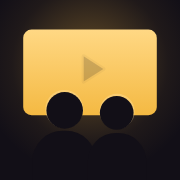
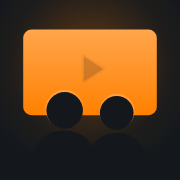
Letterboxd-flavoured restyle; wildcards must fit both players
Slate palette, serif titles, green/orange/blue for yes/no/seen, free
lookalike fonts. Own name and logo kept, logo recoloured.

Claude-Session: https://claude.ai/code/session_01Fsi7tuePNp2wVaPewHNz6a

diff --git a/index.html b/index.html
@@ -3,22 +3,24 @@
 <head>
 <meta charset="utf-8">
 <meta name="viewport" content="width=device-width, initial-scale=1, viewport-fit=cover">
-<meta name="theme-color" content="#120f17">
+<meta name="theme-color" content="#14181c">
 <title>Cineswipe</title>
 <link rel="icon" type="image/svg+xml" href="logo.svg">
 <link rel="apple-touch-icon" href="icon-180.png">
 <link rel="manifest" href="manifest.webmanifest">
 <link rel="preconnect" href="https://fonts.googleapis.com">
 <link rel="preconnect" href="https://fonts.gstatic.com" crossorigin>
-<link href="https://fonts.googleapis.com/css2?family=Anton&family=DM+Sans:wght@400;500;700&display=swap" rel="stylesheet">
+<link href="https://fonts.googleapis.com/css2?family=Hanken+Grotesk:wght@400;500;600;700;800&family=Newsreader:opsz,wght@6..72,600;6..72,700&display=swap" rel="stylesheet">
 <style>
-/* Layout: one narrow column, phone first. Screens: setup, genre pick, handoff, swipe, results. */
+/* Layout: one narrow column, phone first. Screens: setup, picks, handoff, swipe, results.
+   Look: Letterboxd-flavoured. Slate ground, blue-grey text, serif titles, green / orange / blue = yes / no / seen. */
 :root{
-  --ink:#120f17; --ink-2:#1b1723; --ink-3:#2b2536; --line:#383044;
-  --paper:#f2ece1; --muted:#a49cb3; --bulb:#f4b942; --on-bulb:#1c1405;
-  --yes:#5ed39a; --no:#f0705f; --seen:#93a8ff;
-  --display:'Anton','Impact','Arial Narrow',sans-serif;
-  --body:'DM Sans',system-ui,-apple-system,'Segoe UI',Roboto,sans-serif;
+  --ink:#14181c; --ink-2:#1c2228; --ink-3:#283038; --line:#2c3440;
+  --head:#ffffff; --paper:#d8e0e8; --text:#99aabb; --muted:#778899; --faint:#556677;
+  --go:#00ac1c; --on-go:#ffffff;        /* filled buttons and selected chips */
+  --yes:#00e054; --no:#ff8000; --seen:#40bcf4; --link:#40bcf4;
+  --display:'Newsreader','Georgia','Times New Roman',serif;
+  --body:'Hanken Grotesk',system-ui,-apple-system,'Segoe UI',Roboto,sans-serif;
   color-scheme:dark;
 }
 *{box-sizing:border-box}
@@ -34,38 +36,42 @@ body{
 #app{max-width:480px;margin:0 auto}
 h1,h2,h3,p{margin:0}
 button,input{font:inherit;color:inherit}
-a{color:var(--bulb)}
-:focus-visible{outline:2px solid var(--bulb);outline-offset:2px}
+a{color:var(--link);text-decoration:none}
+a:hover{text-decoration:underline}
+:focus-visible{outline:2px solid var(--yes);outline-offset:2px}
 .muted{color:var(--muted)}
 
-.screen{display:flex;flex-direction:column;gap:20px;padding-block:20px 32px;min-width:0}
+.screen{display:flex;flex-direction:column;gap:22px;padding-block:20px 32px;min-width:0}
 .screen.center{min-height:100dvh;justify-content:center;text-align:center;align-items:center;padding-block:24px}
 .screen.swipe{height:calc(100dvh - env(safe-area-inset-top,0px) - env(safe-area-inset-bottom,0px));padding-block:12px;gap:0}
 
-.brand{display:flex;flex-direction:column;gap:8px;align-items:flex-start}
+.brand{display:flex;flex-direction:column;gap:10px;align-items:flex-start;width:100%}
 .center .brand{align-items:center}
-.brand h1{font:400 clamp(36px,11.5vw,60px)/1 var(--display);letter-spacing:.04em;text-transform:uppercase;display:flex;align-items:center;gap:.22em}
-.brand h1 img{height:1em;width:1em;flex:none}
-.marquee{width:100%;height:10px;background:radial-gradient(circle,var(--bulb) 0 3px,transparent 3.6px) 0 50%/16px 10px repeat-x;filter:drop-shadow(0 0 4px rgba(244,185,66,.55))}
-.sub{color:var(--muted);font-size:15px}
+.brand h1{font:700 clamp(34px,10.5vw,52px)/1 var(--display);letter-spacing:-.01em;color:var(--head);display:flex;align-items:center;gap:.28em}
+.brand h1 img{height:1.05em;width:1.05em;flex:none;border-radius:22%}
+.marquee{width:100%;height:1px;background:var(--line)}
+.sub{color:var(--text);font-size:15px}
 
-.label{font-size:12px;font-weight:700;letter-spacing:.12em;text-transform:uppercase;color:var(--muted)}
+.label{font-size:12px;font-weight:600;letter-spacing:.14em;text-transform:uppercase;color:var(--muted)}
 .section{display:flex;flex-direction:column;gap:10px}
 .help{font-size:14px;color:var(--muted)}
-.status{padding:10px 14px;border-radius:10px;background:var(--ink-2);border:1px solid var(--line);font-size:14px}
-.status.bad{border-color:var(--no);color:#ffd4cd}
+.status{padding:10px 14px;border-radius:6px;background:var(--ink-2);border:1px solid var(--line);font-size:14px;color:var(--paper)}
+.status.bad{border-color:var(--no);color:var(--paper)}
 
 .names{display:grid;grid-template-columns:1fr 1fr;gap:8px}
 input[type=text],input[type=password]{
-  width:100%;min-width:0;background:var(--ink-2);border:1px solid var(--line);border-radius:10px;padding:12px 14px;
+  width:100%;min-width:0;background:var(--ink-3);border:1px solid transparent;border-radius:6px;padding:12px 14px;color:var(--head);
+  box-shadow:inset 0 1px 0 rgba(0,0,0,.25);
 }
-input::placeholder{color:#6f677d}
+input:focus{border-color:var(--muted);outline:none}
+input::placeholder{color:var(--faint)}
 
-.btn{appearance:none;border:1px solid var(--line);background:transparent;border-radius:12px;padding:14px 18px;font-weight:700;cursor:pointer;text-align:center;display:inline-flex;align-items:center;justify-content:center;gap:8px}
-.btn.primary{background:var(--bulb);color:var(--on-bulb);border-color:var(--bulb)}
-.btn.primary:disabled{opacity:.4;cursor:not-allowed}
-.btn.ghost{border-color:transparent;color:var(--muted);font-weight:500}
-.btn.small{padding:8px 12px;font-size:14px;border-radius:10px}
+.btn{appearance:none;border:1px solid var(--line);background:var(--ink-3);border-radius:6px;padding:13px 18px;font-weight:600;letter-spacing:.02em;cursor:pointer;text-align:center;display:inline-flex;align-items:center;justify-content:center;gap:8px;color:var(--paper)}
+.btn.primary{background:var(--go);color:var(--on-go);border-color:var(--go);text-transform:uppercase;letter-spacing:.08em;font-size:15px}
+.btn.primary:hover{background:#00c030}
+.btn.primary:disabled{opacity:.35;cursor:not-allowed}
+.btn.ghost{background:transparent;border-color:transparent;color:var(--muted);font-weight:500}
+.btn.small{padding:8px 12px;font-size:14px}
 .btn:disabled{opacity:.4;cursor:not-allowed}
 .filebtn input{position:absolute;width:1px;height:1px;opacity:0;pointer-events:none}
 .filebtn{position:relative}
@@ -74,76 +80,76 @@ summary{cursor:pointer}
 details ul{margin:8px 0 0;padding-left:20px}
 .actions{display:flex;flex-direction:column;gap:10px;width:100%}
 
-.seg{display:grid;grid-template-columns:repeat(3,1fr);border:1px solid var(--line);border-radius:12px;overflow:hidden}
-.seg button{appearance:none;border:0;background:transparent;padding:12px 0;font-weight:700;cursor:pointer;font-variant-numeric:tabular-nums}
+.seg{display:grid;grid-template-columns:repeat(3,1fr);border:1px solid var(--line);border-radius:6px;overflow:hidden;background:var(--ink-2)}
+.seg button{appearance:none;border:0;background:transparent;padding:12px 0;font-weight:600;cursor:pointer;font-variant-numeric:tabular-nums;color:var(--text)}
 .seg button+button{border-left:1px solid var(--line)}
-.seg button[aria-pressed=true]{background:var(--bulb);color:var(--on-bulb)}
+.seg button[aria-pressed=true]{background:var(--go);color:var(--on-go)}
 
 .gchips{display:flex;flex-wrap:wrap;gap:8px}
-.gchip{appearance:none;border:1px solid var(--line);background:var(--ink-2);border-radius:99px;padding:10px 14px;font-weight:500;cursor:pointer}
+.gchip{appearance:none;border:1px solid var(--line);background:var(--ink-2);border-radius:4px;padding:9px 13px;font-weight:500;cursor:pointer;color:var(--paper)}
 .gchip small{color:var(--muted);font-variant-numeric:tabular-nums;margin-left:6px}
-.gchip[aria-pressed=true]{background:var(--bulb);border-color:var(--bulb);color:var(--on-bulb)}
-.gchip[aria-pressed=true] small{color:var(--on-bulb);opacity:.7}
+.gchip[aria-pressed=true]{background:var(--go);border-color:var(--go);color:var(--on-go)}
+.gchip[aria-pressed=true] small{color:var(--on-go);opacity:.75}
 
-.bigname{font:400 clamp(48px,16vw,76px)/1 var(--display);text-transform:uppercase;letter-spacing:.03em;text-wrap:balance;overflow-wrap:anywhere}
+.bigname{font:700 clamp(44px,14vw,68px)/1.02 var(--display);color:var(--head);letter-spacing:-.015em;text-wrap:balance;overflow-wrap:anywhere}
 .pickhead{display:flex;flex-direction:column;gap:6px}
-.pickhead .bigname{font-size:clamp(40px,13vw,60px)}
-.bar{width:100%;height:8px;border-radius:99px;background:var(--ink-3);overflow:hidden}
-.bar i{display:block;height:100%;width:0;background:var(--bulb);transition:width .15s}
+.pickhead .bigname{font-size:clamp(38px,12vw,56px)}
+.bar{width:100%;height:6px;border-radius:99px;background:var(--ink-3);overflow:hidden}
+.bar i{display:block;height:100%;width:0;background:var(--yes);transition:width .15s}
 .count{font-variant-numeric:tabular-nums}
 
 /* swipe */
 .topbar{display:flex;align-items:center;justify-content:space-between;gap:8px;min-height:44px}
-.who{display:flex;flex-direction:column;line-height:1.1;min-width:0}
-.who b{font:400 24px/1.1 var(--display);text-transform:uppercase;letter-spacing:.04em;overflow:hidden;text-overflow:ellipsis;white-space:nowrap}
+.who{display:flex;flex-direction:column;line-height:1.15;min-width:0}
+.who b{font:700 22px/1.15 var(--display);color:var(--head);overflow:hidden;text-overflow:ellipsis;white-space:nowrap}
 .who span{font-size:13px;color:var(--muted);font-variant-numeric:tabular-nums}
 .stage{position:relative;flex:1;min-height:0;margin:8px 0 12px}
 .card{
   position:absolute;inset:0;display:flex;flex-direction:column;background:var(--ink-2);border:1px solid var(--line);
-  border-radius:18px;overflow:hidden;touch-action:pan-y;cursor:grab;transition:transform .25s ease,opacity .25s ease;
-  will-change:transform;user-select:none;-webkit-user-select:none;
+  border-radius:8px;overflow:hidden;touch-action:pan-y;cursor:grab;transition:transform .25s ease,opacity .25s ease;
+  will-change:transform;user-select:none;-webkit-user-select:none;box-shadow:0 10px 30px rgba(0,0,0,.35);
 }
-.card.back{transform:scale(.94) translateY(12px);opacity:.55;pointer-events:none}
+.card.back{transform:scale(.94) translateY(12px);opacity:.5;pointer-events:none}
 .poster{position:relative;flex:1 1 auto;min-height:110px;background:var(--ink-3)}
 .poster img{width:100%;height:100%;object-fit:cover;object-position:center 20%;display:block;pointer-events:none}
-.noposter{height:100%;display:flex;align-items:center;justify-content:center;padding:24px;text-align:center;font:400 30px/1.1 var(--display);text-transform:uppercase;color:var(--muted)}
+.noposter{height:100%;display:flex;align-items:center;justify-content:center;padding:24px;text-align:center;font:700 30px/1.1 var(--display);color:var(--muted)}
 .info{display:flex;flex-direction:column;gap:5px;padding:14px 16px 16px;background:var(--ink-2);flex:none;max-height:66%;overflow:auto}
-.ctitle{font:400 26px/1.1 var(--display);letter-spacing:.02em;text-transform:uppercase;text-wrap:balance}
-.meta{font-size:14px;color:var(--paper);font-variant-numeric:tabular-nums}
-.credit{font-size:14px;color:#d9d2c6}
+.ctitle{font:700 26px/1.12 var(--display);color:var(--head);letter-spacing:-.01em;text-wrap:balance}
+.meta{font-size:14px;color:var(--text);font-variant-numeric:tabular-nums}
+.credit{font-size:14px;color:var(--paper)}
 .credit span{color:var(--muted)}
-.why{font-size:13px;font-weight:500;color:var(--bulb)}
-.wildbadge{position:absolute;left:12px;bottom:12px;font-size:12px;font-weight:700;padding:4px 10px;border-radius:99px;background:var(--bulb);color:var(--on-bulb)}
+.why{font-size:13px;font-weight:600;color:var(--yes)}
+.wildbadge{position:absolute;left:12px;bottom:12px;font-size:11px;font-weight:700;letter-spacing:.1em;text-transform:uppercase;padding:4px 9px;border-radius:3px;background:var(--seen);color:#0b1a24}
 .genres{font-size:13px;color:var(--muted)}
-.over{font-size:14px;color:#d9d2c6}
+.over{font-size:14px;color:var(--text)}
 .over.clamp{display:-webkit-box;-webkit-line-clamp:3;-webkit-box-orient:vertical;overflow:hidden}
-.trailer{align-self:flex-start;font-size:14px;font-weight:700;margin-top:2px}
-.stamp{position:absolute;top:20px;padding:2px 12px;border:3px solid;border-radius:8px;font:400 34px/1.2 var(--display);letter-spacing:.06em;opacity:0;background:rgba(18,15,23,.55)}
+.trailer{align-self:flex-start;font-size:14px;font-weight:600;margin-top:2px}
+.stamp{position:absolute;top:20px;padding:2px 12px;border:3px solid;border-radius:6px;font:800 30px/1.2 var(--body);letter-spacing:.08em;opacity:0;background:rgba(20,24,28,.6)}
 .stamp.yes{left:16px;color:var(--yes);transform:rotate(-12deg)}
 .stamp.no{right:16px;color:var(--no);transform:rotate(12deg)}
-.fitbadge{position:absolute;right:12px;bottom:12px;font-size:12px;font-weight:700;padding:4px 10px;border-radius:99px;background:rgba(18,15,23,.8);color:var(--bulb);border:1px solid var(--bulb)}
+.fitbadge{position:absolute;right:12px;bottom:12px;font-size:11px;font-weight:700;letter-spacing:.1em;text-transform:uppercase;padding:4px 9px;border-radius:3px;background:rgba(20,24,28,.85);color:var(--yes);border:1px solid var(--yes)}
 .votes{display:grid;grid-template-columns:1fr 1fr 1fr;gap:10px}
-.vote{appearance:none;border:2px solid;border-radius:14px;background:transparent;height:58px;font-weight:700;cursor:pointer;display:flex;align-items:center;justify-content:center;gap:8px}
+.vote{appearance:none;border:2px solid;border-radius:8px;background:transparent;height:58px;font-weight:700;cursor:pointer;display:flex;align-items:center;justify-content:center;gap:8px}
 .vote svg{width:22px;height:22px;stroke:currentColor;fill:none;stroke-width:2.4;stroke-linecap:round;stroke-linejoin:round}
 .vote.no{color:var(--no);border-color:var(--no)}
 .vote.seen{color:var(--seen);border-color:var(--seen)}
-.vote.yes{color:#0d2a1d;background:var(--yes);border-color:var(--yes)}
+.vote.yes{color:#04210f;background:var(--yes);border-color:var(--yes)}
 .vote:active{transform:scale(.97)}
 
 /* results */
 .list{display:flex;flex-direction:column}
 .row{display:grid;grid-template-columns:72px minmax(0,1fr);gap:12px;padding:12px 0;border-top:1px solid var(--line)}
-.row img,.row .ph{width:72px;aspect-ratio:2/3;object-fit:cover;border-radius:6px;background:var(--ink-3);display:block}
-.row h3{font:400 20px/1.15 var(--display);letter-spacing:.02em;text-transform:uppercase;overflow-wrap:anywhere}
+.row img,.row .ph{width:72px;aspect-ratio:2/3;object-fit:cover;border-radius:4px;background:var(--ink-3);display:block;box-shadow:inset 0 0 0 1px rgba(221,238,255,.2)}
+.row h3{font:700 20px/1.15 var(--display);color:var(--head);overflow-wrap:anywhere}
 .row .meta,.row .credit{color:var(--muted);font-size:13px}
 .chips{display:flex;flex-wrap:wrap;gap:6px;margin-top:6px}
-.chip{font-size:12px;padding:2px 9px;border-radius:99px;border:1px solid var(--line);color:var(--muted)}
+.chip{font-size:12px;padding:2px 9px;border-radius:3px;border:1px solid var(--line);color:var(--muted)}
 .chip.yes{color:var(--yes);border-color:var(--yes)}
 .chip.no{color:var(--no);border-color:var(--no)}
 .chip.seen{color:var(--seen);border-color:var(--seen)}
 .empty{padding:14px 0;color:var(--muted);font-size:15px}
-.hh{display:flex;align-items:baseline;justify-content:space-between;gap:8px}
-.hh h2{font:400 28px/1.1 var(--display);letter-spacing:.03em;text-transform:uppercase}
+.hh{display:flex;align-items:baseline;justify-content:space-between;gap:8px;border-bottom:1px solid var(--line);padding-bottom:6px}
+.hh h2{font:600 13px/1.2 var(--body);letter-spacing:.14em;text-transform:uppercase;color:var(--text)}
 @media (prefers-reduced-motion:reduce){*{transition-duration:.01ms!important;animation-duration:.01ms!important}}
 </style>
 </head>
@@ -495,7 +501,8 @@ async function makeDeck(){
   // About a quarter of each deck is wildcards, when there are any. Both parts follow the genre picks.
   const nWild=S.wild.length?Math.round(S.size/4):0;
   const L=S.round.langs||[null,null];
-  const wildPart=buildDeck(S.wild,S.round.picks,nWild,undefined,L).deck;
+  // Wildcards only go in when they suit both players; otherwise the slot goes to a watchlist film.
+  const wildPart=buildDeck(S.wild,S.round.picks,nWild,undefined,L).deck.filter(m=>fitScore(m,S.round.picks,L)===S.round.picks.length);
   const deck=shuffle(buildDeck(S.movies,S.round.picks,S.size-wildPart.length,undefined,L).deck.concat(wildPart));
   if(!deck.length){
     S.notice='No films on the list are in the languages you both picked. Choose again.';
